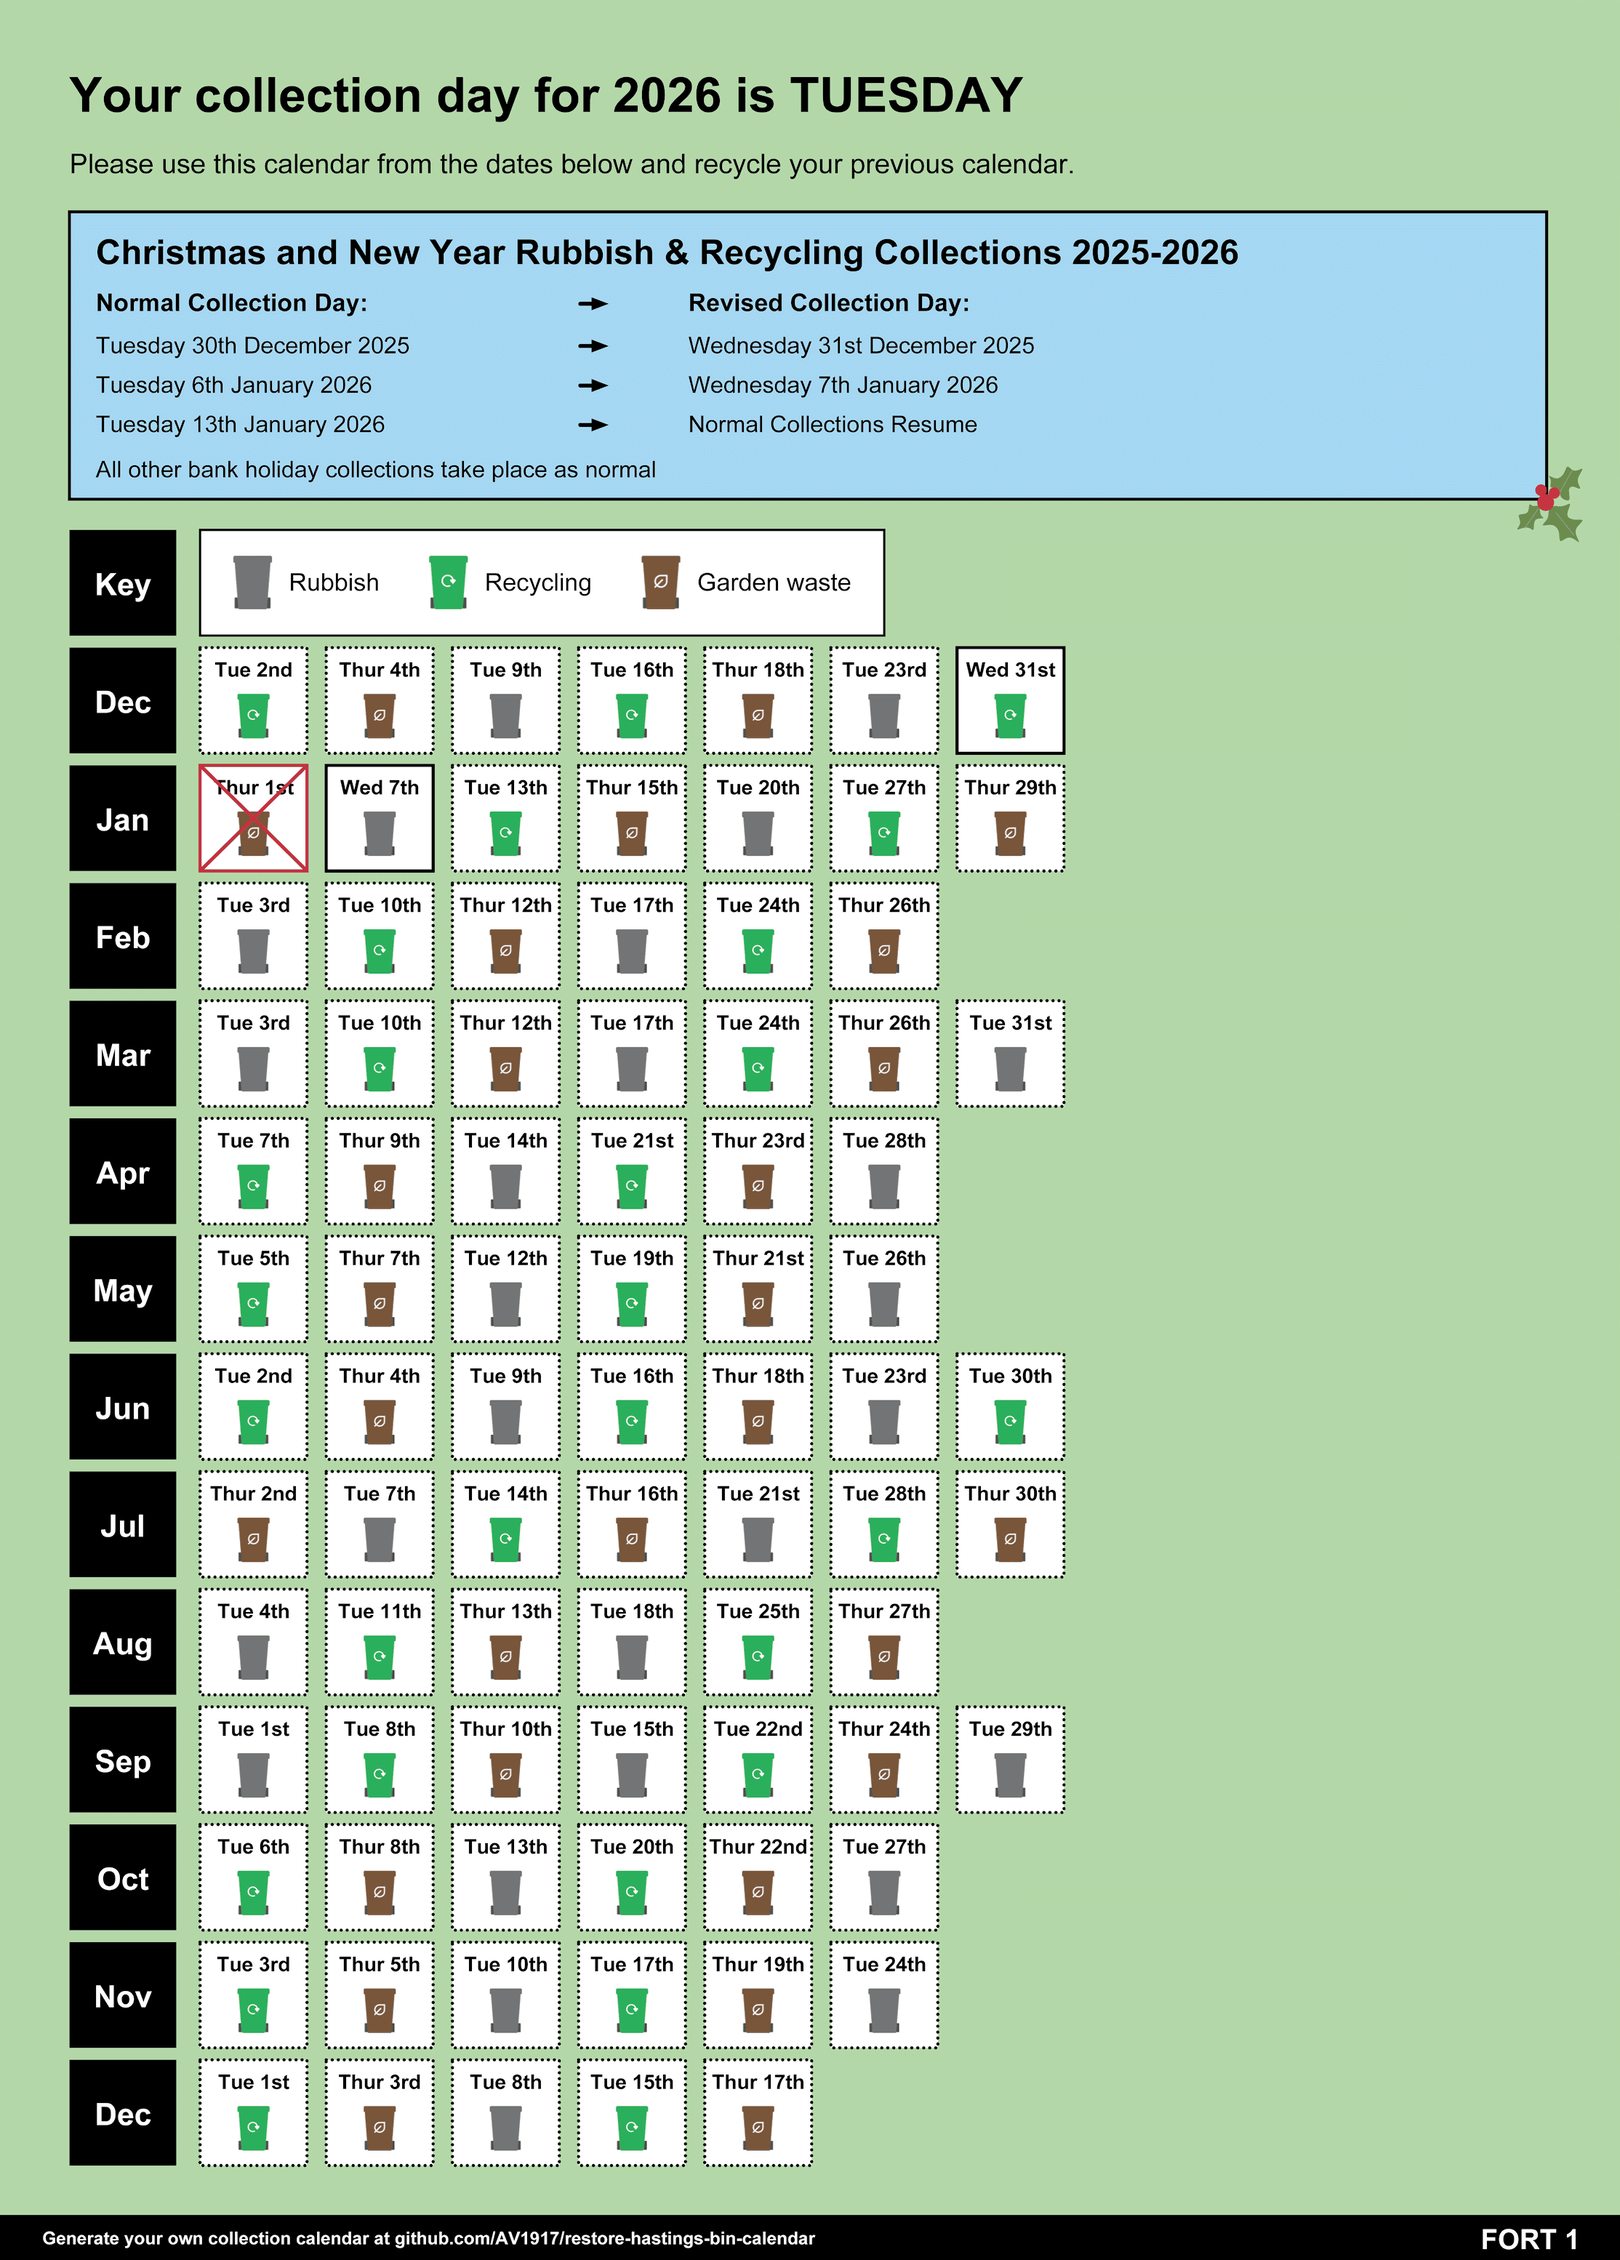
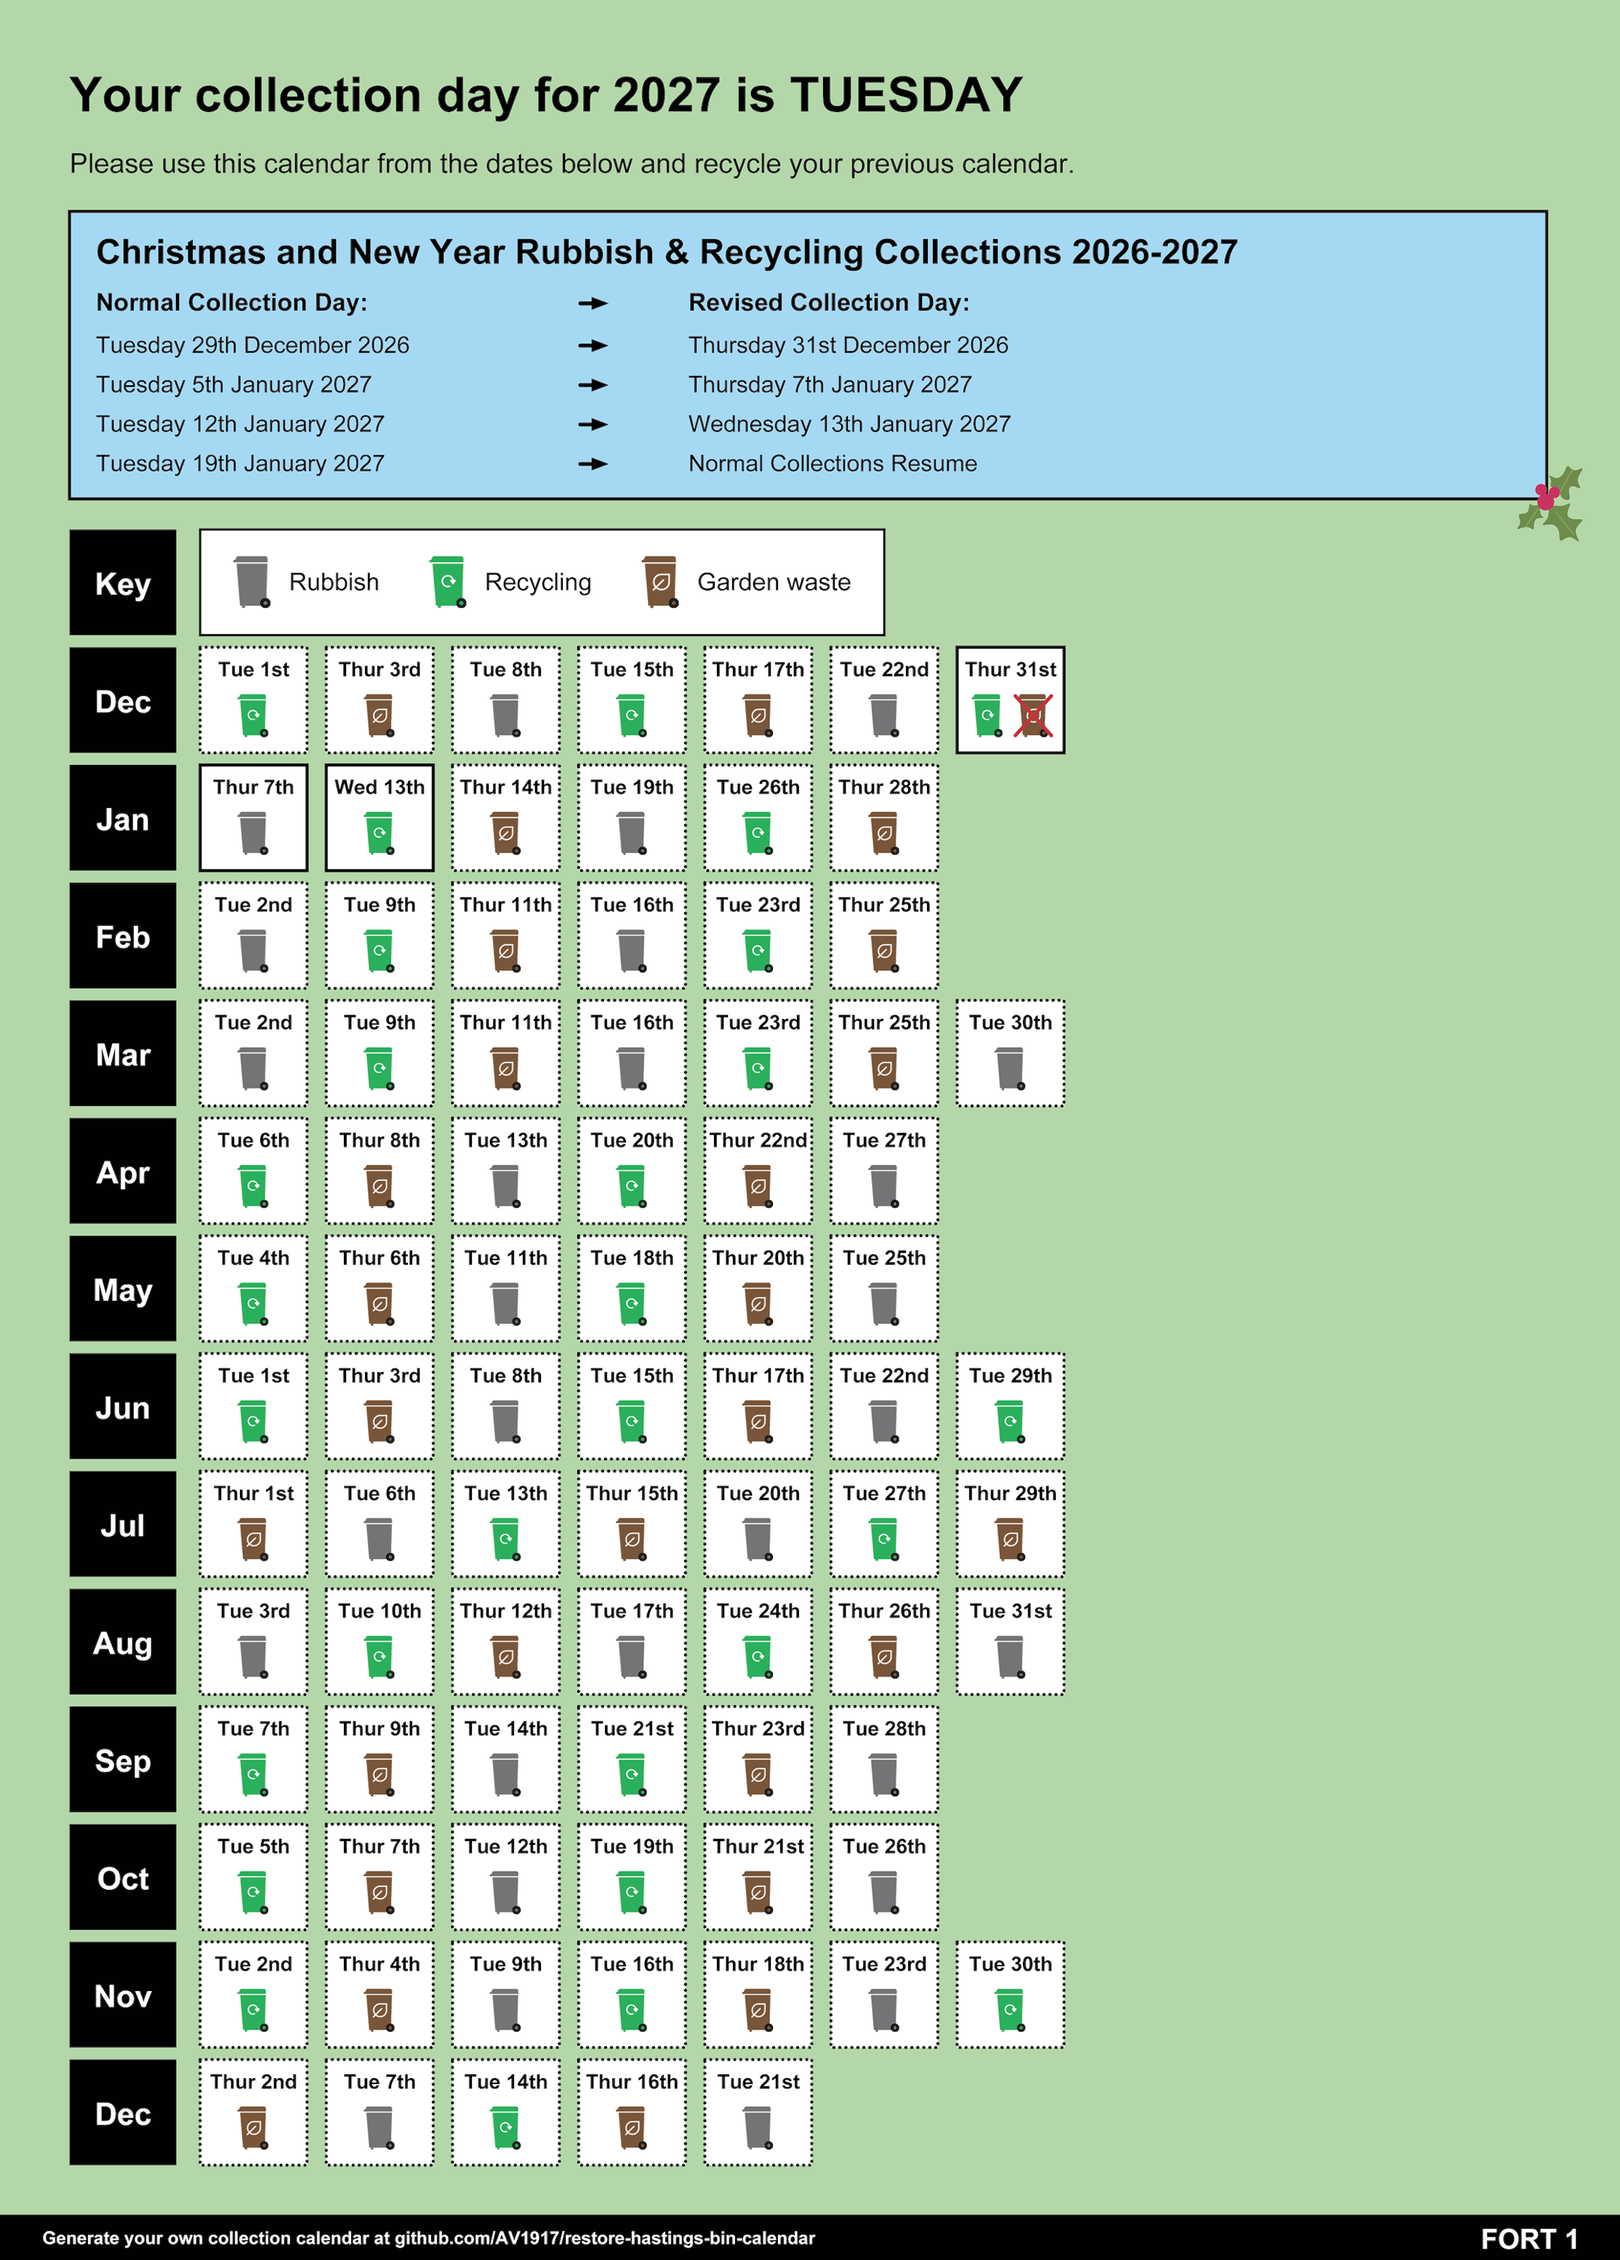
Update photos. Fix version number.

diff --git a/restore-hastings-bin-calendar.user.js b/restore-hastings-bin-calendar.user.js
@@ -2,7 +2,7 @@
 // @name         Restore Hastings Bin Calendar
 // @namespace    https://github.com/AV1917
 // @homepage     https://github.com/AV1917
-// @version      1.0.7
+// @version      1.0.4
 // @description  A userscript that recreates the PDF download for the selected bin collection schedule and puts it back where it belongs on the Hastings Borough Council webpage.
 // @icon         https://github.com/AV1917/restore-hastings-bin-calendar/raw/main/docs/RHBC.png
 // @author       AV1917
